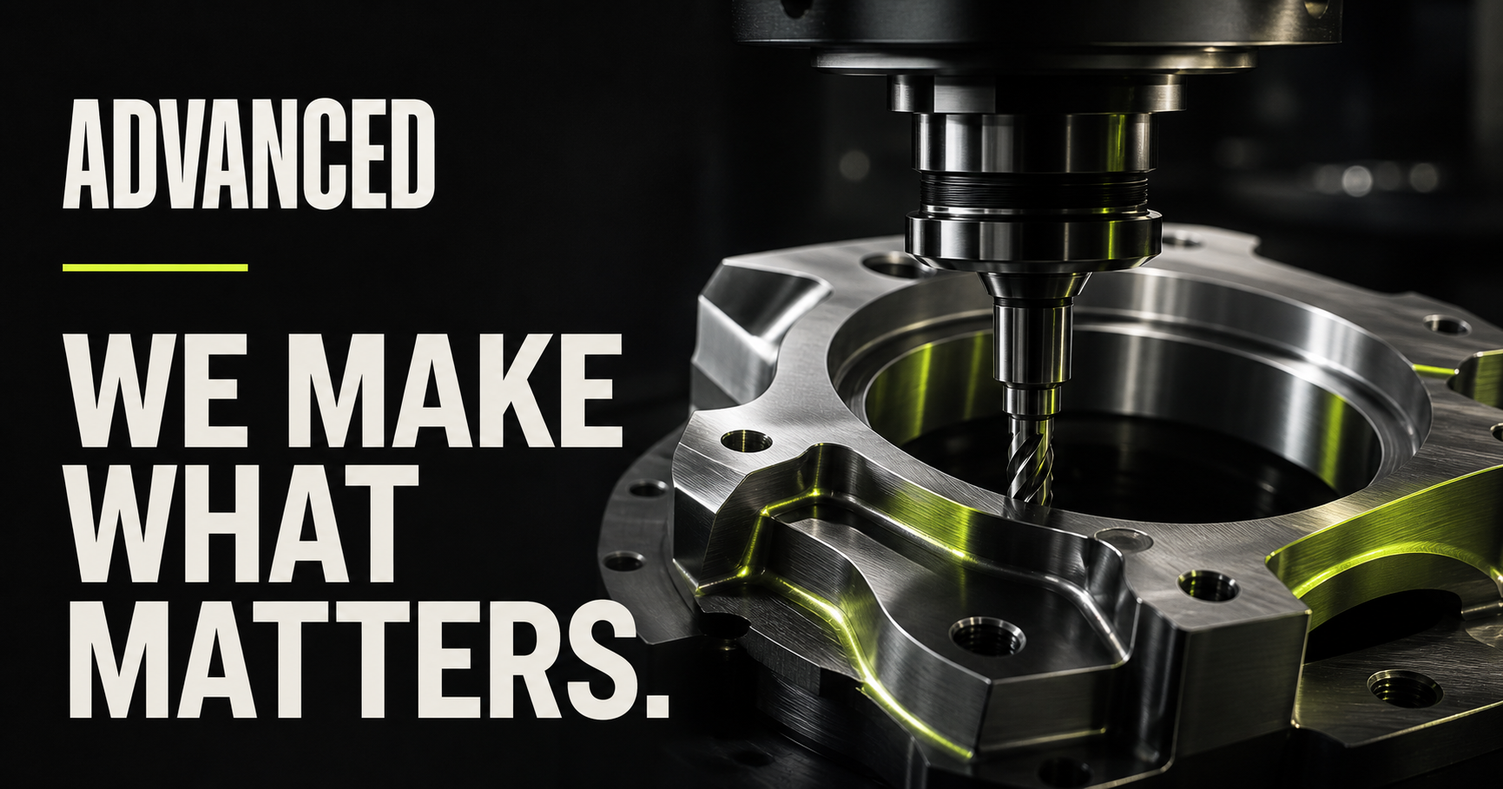
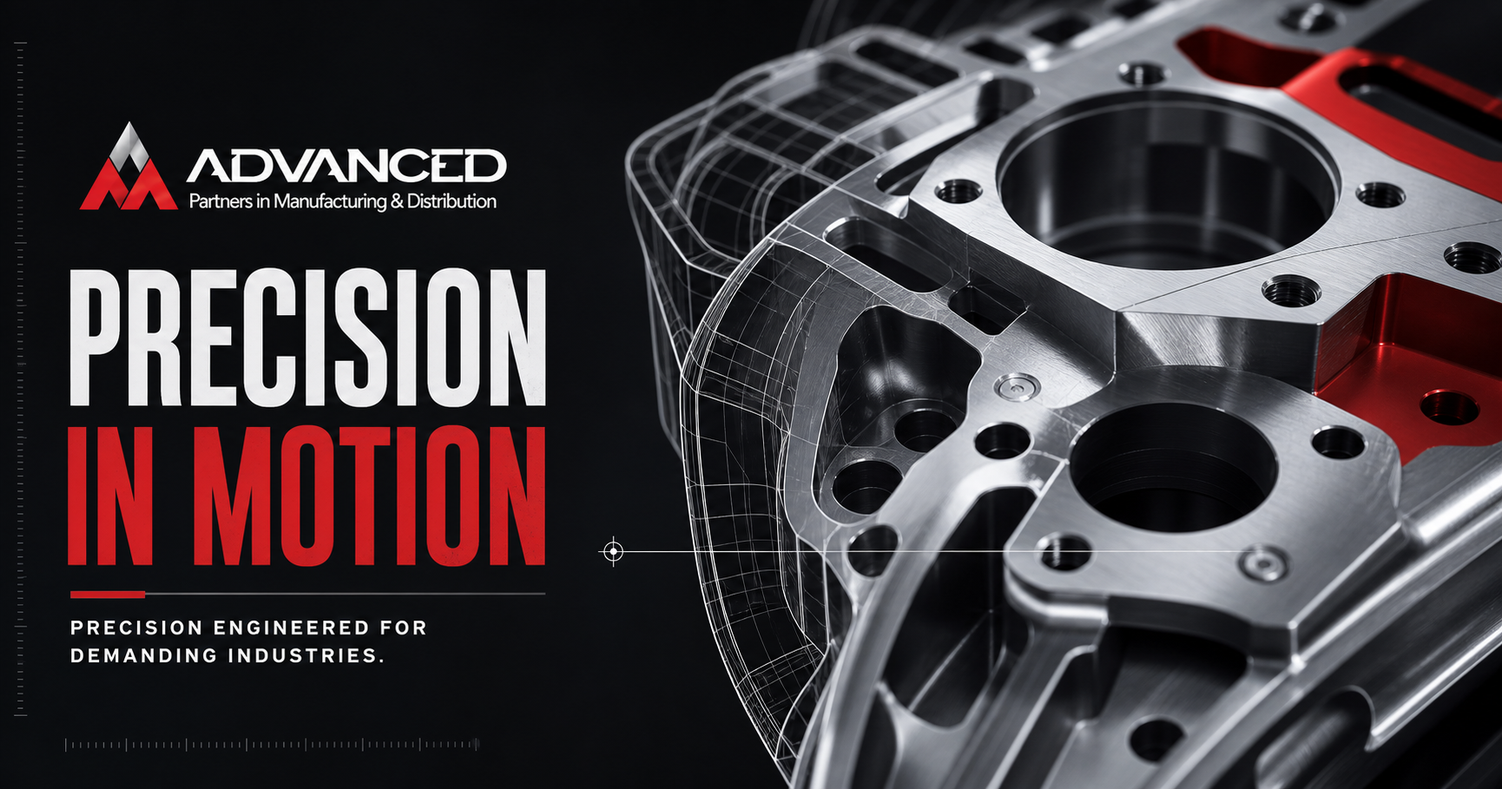
Redesign Advanced around Precision in Motion

diff --git a/app/globals.css b/app/globals.css
@@ -1,3 +1,15 @@
 @import "tailwindcss";
-:root{--ink:#10110f;--paper:#f0eee7;--acid:#d7ff3f;--line:#10110f2e}*{box-sizing:border-box}html{scroll-behavior:smooth}body{margin:0;background:var(--paper);color:var(--ink);font-family:var(--font-geist),Arial,sans-serif}a{color:inherit;text-decoration:none}main{overflow:hidden}.site-header{position:absolute;z-index:10;inset:0 0 auto;height:86px;display:flex;align-items:center;gap:42px;padding:0 3.4vw;color:white;border-bottom:1px solid #ffffff3d}.brand{display:inline-flex;align-items:center;gap:12px;font-size:14px;font-weight:720;letter-spacing:.16em}.brand-mark{width:34px;height:34px;display:grid;place-items:center;border:1px solid;border-radius:50%;font-size:14px;letter-spacing:0}.desktop-nav{margin-left:auto;display:flex;gap:34px;font-size:13px}.header-cta{margin-left:24px;padding:12px 18px;border:1px solid #ffffffb3;border-radius:100px;font-size:13px}.hero{position:relative;min-height:100svh;color:white;background:#181a17;display:flex;flex-direction:column;justify-content:flex-end;padding:122px 3.4vw 34px}.hero-video{position:absolute;inset:0;width:100%;height:100%;object-fit:cover;filter:saturate(.55) contrast(1.08)}.hero-shade{position:absolute;inset:0;background:linear-gradient(90deg,#070807d1,#07080733 58%,#07080775),linear-gradient(0deg,#070807b8,transparent 55%)}.hero-grid{position:absolute;inset:0;background-image:linear-gradient(#ffffff0e 1px,transparent 1px),linear-gradient(90deg,#ffffff0e 1px,transparent 1px);background-size:8.33vw 8.33vw}.eyebrow{position:relative;z-index:1;display:flex;align-items:center;gap:12px;text-transform:uppercase;font:600 11px var(--font-mono),monospace;letter-spacing:.15em}.eyebrow span{width:30px;height:1px;background:currentColor}.hero-copy{position:relative;display:grid;grid-template-columns:1fr minmax(240px,27vw);gap:6vw;align-items:end;z-index:1}.hero h1{margin:22px 0 0;font-size:clamp(68px,11.2vw,178px);line-height:.78;letter-spacing:-.075em;font-weight:650}.hero-side{display:flex;align-items:flex-end;justify-content:space-between;gap:30px;padding-bottom:10px}.hero-side p{max-width:330px;margin:0;font-size:clamp(16px,1.35vw,22px);line-height:1.45}.circle-link{width:58px;height:58px;display:grid;place-items:center;border:1px solid #ffffffa6;border-radius:50%}.hero-foot{position:relative;z-index:1;margin-top:50px;padding-top:20px;display:flex;justify-content:space-between;border-top:1px solid #ffffff47;text-transform:uppercase;font:500 10px var(--font-mono),monospace;letter-spacing:.12em}.section-pad{padding:130px 5vw}.statement{position:relative;min-height:820px}.statement h2{margin:70px 0 0;font-size:clamp(74px,11vw,164px);line-height:.82;letter-spacing:-.075em;font-weight:630}.statement-copy{position:absolute;right:7vw;bottom:130px;width:min(390px,32vw);font-size:19px;line-height:1.55}.capabilities{display:grid;grid-template-columns:repeat(3,1fr);border-block:1px solid var(--line)}.capability{min-height:530px;padding:34px 2.8vw 28px;display:flex;flex-direction:column;border-right:1px solid var(--line);transition:.35s}.capability:last-child{border:0}.capability:hover{background:var(--ink);color:var(--paper)}.cap-number{font:500 11px var(--font-mono),monospace}.capability h3{margin:auto 0 22px;font-size:clamp(38px,4vw,64px);line-height:.95;letter-spacing:-.055em}.capability p{margin:0 0 48px;font-size:15px;line-height:1.55}.cap-bottom{display:flex;justify-content:space-between;padding-top:20px;border-top:1px solid;text-transform:uppercase;font:500 10px var(--font-mono),monospace}.quality{padding:110px 6vw;background:var(--ink);color:var(--paper);display:grid;grid-template-columns:1fr 1.15fr;gap:7vw}.quality-orbit{min-height:680px;display:grid;place-items:center;border:1px solid #f0eee73d;border-radius:50%;position:relative}.quality-orbit:after{content:"";position:absolute;width:38%;height:38%;border-radius:50%;background:var(--acid)}.quality-orbit span{z-index:2;color:var(--ink);font-size:clamp(95px,15vw,220px);font-weight:650}.quality-copy{padding-top:80px}.quality h2,.systems h2{margin:55px 0 36px;font-size:clamp(62px,8vw,125px);line-height:.85;letter-spacing:-.07em}.quality-copy>p:last-of-type{font-size:18px;line-height:1.65;color:#bfc0b8}.text-link{display:inline-flex;gap:22px;margin-top:32px;border-bottom:1px solid;padding-bottom:8px}.quality-stats{grid-column:2;display:grid;grid-template-columns:repeat(3,1fr);border-top:1px solid #f0eee738;padding-top:24px}.quality-stats div{display:flex;flex-direction:column;gap:38px}.quality-stats strong{color:var(--acid)}.systems{display:grid;grid-template-columns:.78fr 1.22fr;gap:8vw}.systems-heading{position:sticky;top:60px;align-self:start}.systems-heading>p:last-child{max-width:390px;font-size:17px;line-height:1.6}.systems-list{border-top:1px solid var(--line)}.systems-list article{display:grid;grid-template-columns:60px 1fr minmax(200px,.8fr) 30px;gap:22px;padding:35px 0 60px;border-bottom:1px solid var(--line)}.system-index{font:500 10px var(--font-mono),monospace}.systems-list h3{margin:0;font-size:clamp(25px,2.8vw,43px);line-height:1;letter-spacing:-.04em}.systems-list p{margin:0;font-size:14px;line-height:1.55}.story{min-height:800px;position:relative;background:#aeb0aa;display:grid;grid-template-columns:1.3fr .7fr;align-items:end;padding:6vw}.story:before{content:"";position:absolute;width:50vw;height:50vw;border-radius:50%;background:var(--acid);left:-7vw;top:-16vw}.story-word{z-index:1;font-size:clamp(170px,31vw,480px);font-weight:700;letter-spacing:-.11em;line-height:.65}.story-copy{z-index:2}.story-copy h2{font-size:clamp(45px,5vw,78px);line-height:.92;letter-spacing:-.055em}.story-copy>p:last-child{font-size:17px;line-height:1.6}.contact{padding:120px 5vw 70px}.contact h2{margin:70px 0 80px;font-size:clamp(100px,17vw,260px);line-height:.72;letter-spacing:-.09em}.contact-row{display:grid;grid-template-columns:1fr 1fr;gap:5vw;border-top:1px solid var(--line);padding-top:28px}.contact-row p{max-width:440px;font-size:18px;line-height:1.55}.contact-row a{display:flex;justify-content:space-between;padding:22px 0;border-bottom:1px solid;font-size:21px}footer{background:var(--ink);color:var(--paper);padding:60px 5vw 35px;display:grid;grid-template-columns:1.3fr 1fr .6fr;gap:40px}footer>div{display:flex;flex-direction:column;gap:12px}footer p{grid-column:1/-1;margin-top:60px;padding-top:20px;border-top:1px solid #ffffff33}
-@media(max-width:900px){.desktop-nav{display:none}.header-cta{margin-left:auto}.hero-copy,.quality,.systems,.story{grid-template-columns:1fr}.statement-copy{position:static;width:auto;margin-top:60px}.capabilities{grid-template-columns:1fr}.capability{min-height:360px;border-right:0;border-bottom:1px solid var(--line)}.quality-orbit{min-height:70vw}.quality-stats{grid-column:1}.systems-heading{position:static}.story{min-height:700px}}@media(max-width:560px){.site-header{padding:0 20px}.brand>span:last-child,.hero-foot span:not(:first-child){display:none}.header-cta{font-size:11px}.hero{padding:110px 20px 25px;min-height:760px}.hero h1{font-size:20vw}.hero-side{display:block}.section-pad{padding:90px 22px}.statement{min-height:auto}.quality,.story,.contact{padding:80px 22px}.quality-stats,.contact-row,footer{grid-template-columns:1fr}.systems-list article{grid-template-columns:40px 1fr}.systems-list p{grid-column:2}.story-word{font-size:48vw}footer{padding:50px 22px}footer p{grid-column:1;margin-top:20px}}@media(prefers-reduced-motion:reduce){html{scroll-behavior:auto}.hero-video{display:none}}
+:root{--red:#e03131;--ink:#151718;--graphite:#222629;--mid:#6b6f72;--silver:#b6b9bc;--line:#d0d1ce;--paper:#f4f3ef;--white:#fff;--display:"Arial Narrow","Helvetica Neue",Arial,sans-serif}
+*{box-sizing:border-box}html{scroll-behavior:smooth;scroll-padding-top:82px}body{margin:0;background:var(--paper);color:var(--ink);font-family:var(--font-geist),Arial,sans-serif}a{color:inherit;text-decoration:none}button,input,textarea{font:inherit}main{overflow:hidden}.skip-link{position:fixed;z-index:100;top:8px;left:8px;transform:translateY(-160%);background:var(--red);color:#fff;padding:12px 18px}.skip-link:focus{transform:none}.site-header{position:fixed;z-index:50;inset:0 0 auto;height:82px;display:flex;align-items:center;gap:32px;padding:0 2.5vw;background:#f4f3eff2;border-bottom:1px solid #1b1d1e26;backdrop-filter:blur(18px)}.brand{width:205px;height:64px;display:flex;align-items:center;overflow:hidden}.brand img{width:205px;height:auto;display:block}.desktop-nav{margin-left:auto;display:flex;align-items:center;gap:clamp(14px,1.7vw,30px);font-size:12px;font-weight:650;letter-spacing:.025em}.desktop-nav a{position:relative;padding:10px 0}.desktop-nav a:after{content:"";position:absolute;left:0;right:100%;bottom:4px;height:2px;background:var(--red);transition:right .25s}.desktop-nav a:hover:after,.desktop-nav a:focus-visible:after{right:0}.header-rfq{display:flex;align-items:center;gap:22px;padding:12px 17px;background:var(--red);color:#fff;text-transform:uppercase;font:600 11px var(--font-mono),monospace;letter-spacing:.08em}.header-rfq:hover,.header-rfq:focus-visible{background:#bd1e26}a:focus-visible,summary:focus-visible,input:focus-visible,textarea:focus-visible{outline:3px solid var(--red);outline-offset:3px}
+.hero{position:relative;min-height:100svh;padding-top:82px;background:#101112;color:#fff;display:flex;flex-direction:column}.hero-video{position:absolute;inset:82px 0 0;width:100%;height:calc(100% - 82px);object-fit:cover;filter:saturate(.42) contrast(1.15)}.hero-overlay{position:absolute;inset:82px 0 0;background:linear-gradient(90deg,#111314eb 0%,#111314b0 46%,#11131438 76%),linear-gradient(0deg,#111314e8 0%,transparent 55%)}.scan-grid{position:absolute;inset:82px 0 0;background-image:linear-gradient(#ffffff0c 1px,transparent 1px),linear-gradient(90deg,#ffffff0c 1px,transparent 1px);background-size:8.333vw 8.333vw;pointer-events:none}.scan-grid:after{content:"";position:absolute;left:58%;top:12%;width:min(30vw,440px);aspect-ratio:1;border:1px solid #ffffff4d;border-radius:50%;box-shadow:0 0 0 5vw #ffffff08,0 0 0 10vw #ffffff05}.scan-grid i{position:absolute;background:var(--red)}.scan-grid i:first-child{left:58%;top:50%;width:30vw;height:1px}.scan-grid i:nth-child(2){left:73%;top:28%;width:1px;height:44%}.scan-grid i:last-child{left:72.7%;top:49.6%;width:7px;height:7px;border-radius:50%}.hero-content{position:relative;z-index:2;flex:1;display:flex;flex-direction:column;justify-content:flex-end;padding:120px 4vw 52px}.kicker{display:flex;align-items:center;gap:28px;margin:0 0 32px;text-transform:uppercase;font:600 10px var(--font-mono),monospace;letter-spacing:.16em}.kicker span{color:#fff}.kicker b{color:#ffffff8c;font-weight:500}.kicker:before{content:"";width:44px;height:3px;background:var(--red)}.hero h1{max-width:1200px;margin:0;font-family:var(--display);font-size:clamp(64px,8.7vw,148px);font-stretch:condensed;font-weight:850;line-height:.83;letter-spacing:-.065em;text-transform:uppercase}.hero-bottom{display:grid;grid-template-columns:minmax(280px,580px) auto;gap:6vw;align-items:end;margin-top:50px}.hero-bottom>p{margin:0;font-size:clamp(16px,1.35vw,21px);line-height:1.55;color:#e4e4e0}.hero-actions{display:flex;gap:12px;justify-content:flex-end}.button{min-height:52px;padding:0 19px;display:inline-flex;align-items:center;justify-content:space-between;gap:38px;text-transform:uppercase;font:650 10px var(--font-mono),monospace;letter-spacing:.08em;border:1px solid transparent;transition:.2s}.button-red{background:var(--red);color:#fff}.button-red:hover{background:#bd1e26}.button-ghost{border-color:#ffffff70;color:#fff}.button-ghost:hover{background:#fff;color:#111}.trust-strip{position:relative;z-index:2;min-height:64px;display:grid;grid-template-columns:repeat(5,1fr);border-top:1px solid #ffffff40}.trust-strip span{display:grid;place-items:center;padding:18px 10px;border-right:1px solid #ffffff40;text-transform:uppercase;font:550 10px var(--font-mono),monospace;letter-spacing:.12em}.trust-strip span:last-child{border:0}
+.section-shell{padding:120px 4vw}.section-label{display:flex;gap:18px;align-items:center;text-transform:uppercase;font:650 10px var(--font-mono),monospace;letter-spacing:.14em}.section-label span{color:var(--red)}.section-label p{margin:0}.section-label:after{content:"";height:1px;width:46px;background:currentColor;opacity:.4}.section-label.light{color:#fff}.intro{display:grid;grid-template-columns:170px 1fr;gap:4vw}.intro-copy h2,.section-heading h2,.proof h2,.quality h2,.company h2,.rfq h2{margin:0;font-family:var(--display);font-size:clamp(62px,8vw,128px);font-weight:850;line-height:.84;letter-spacing:-.065em;text-transform:uppercase}.intro-copy h2 em,.rfq h2 em{color:var(--red);font-style:normal}.intro-copy>p{margin:42px 0 0 44%;max-width:570px;font-size:18px;line-height:1.65}.material-sequence{grid-column:2;margin-top:90px;display:grid;grid-template-columns:1fr auto 1fr auto 1fr;gap:25px;align-items:center;border-top:1px solid var(--line);padding-top:28px}.material-sequence div{display:flex;flex-direction:column;gap:30px}.material-sequence b{color:var(--red);font:600 10px var(--font-mono),monospace}.material-sequence span{text-transform:uppercase;font:650 12px var(--font-mono),monospace;letter-spacing:.08em}.material-sequence i{font-style:normal;color:var(--mid)}
+.capabilities{display:grid;grid-template-columns:minmax(320px,.82fr) 1.18fr;gap:8vw;background:#fff}.section-heading{align-self:start;position:sticky;top:120px}.section-heading h2{margin:52px 0 34px;font-size:clamp(52px,6.2vw,96px)}.section-heading>p{max-width:480px;margin:0;font-size:17px;line-height:1.65;color:#505457}.capability-list{border-top:1px solid var(--ink)}details{border-bottom:1px solid var(--line)}summary{list-style:none;cursor:pointer;display:grid;grid-template-columns:44px 1fr minmax(180px,.75fr) 24px;gap:20px;align-items:start;padding:28px 0}summary::-webkit-details-marker{display:none}summary>span{color:var(--red);font:600 10px var(--font-mono),monospace}summary h3{margin:0;font-family:var(--display);font-size:clamp(26px,2.4vw,42px);line-height:.95;text-transform:uppercase}summary p{margin:0;font-size:13px;line-height:1.5;color:#666a6c}summary b{font-size:22px;font-weight:400;transition:transform .2s}details[open] summary b{transform:rotate(45deg);color:var(--red)}.capability-detail{display:grid;grid-template-columns:repeat(2,1fr);margin:0 0 30px 64px;background:#efefec}.capability-detail div{min-height:110px;padding:18px;border:1px solid #fff;display:flex;flex-direction:column;gap:14px}.capability-detail span{text-transform:uppercase;font:600 9px var(--font-mono),monospace;letter-spacing:.1em;color:var(--red)}.capability-detail strong{font-size:13px;line-height:1.5;font-weight:550}
+.proof{background:var(--graphite);color:#fff;padding:115px 0 38px}.proof-top{padding-top:0;padding-bottom:75px}.proof-top h2{margin:50px 0 0}.proof-grid{display:grid;grid-template-columns:repeat(4,1fr);border-block:1px solid #ffffff2b}.proof-grid div{min-height:300px;padding:34px 3vw;display:flex;flex-direction:column;justify-content:space-between;border-right:1px solid #ffffff2b}.proof-grid div:last-child{border:0}.proof-grid strong{font-family:var(--display);font-size:clamp(70px,9vw,148px);line-height:.75;letter-spacing:-.06em;color:var(--red)}.proof-grid span{max-width:190px;font-size:13px;line-height:1.4;color:#d2d2cd}.proof-note{max-width:760px;margin:30px 4vw 0;color:#949794;font:500 10px/1.6 var(--font-mono),monospace;text-transform:uppercase;letter-spacing:.06em}
+.work{background:#ecebe7}.work-heading{position:static;display:grid;grid-template-columns:170px 1fr;gap:4vw}.work-heading h2{grid-column:2}.work-heading>a{grid-column:2;justify-self:end;border-bottom:1px solid;padding:9px 0;text-transform:uppercase;font:600 10px var(--font-mono),monospace}.project-grid{margin-top:90px;display:grid;grid-template-columns:repeat(12,1fr);gap:5vw 2vw}.project{grid-column:span 6}.project-2{margin-top:160px}.project-3{grid-column:3/span 8;margin-top:50px}.project-image{position:relative;aspect-ratio:1.2;background:#222;overflow:hidden}.project-3 .project-image{aspect-ratio:1.7}.project-image img{width:100%;height:100%;object-fit:cover;transition:transform .7s,filter .7s;filter:saturate(.72)}.project:hover img{transform:scale(1.025);filter:saturate(1)}.project-image>span{position:absolute;top:18px;left:18px;width:38px;height:38px;display:grid;place-items:center;background:#fff;color:#111;font:600 10px var(--font-mono),monospace}.project-industry{margin:22px 0 12px;color:var(--red);text-transform:uppercase;font:650 10px var(--font-mono),monospace;letter-spacing:.1em}.project h3{margin:0;font-family:var(--display);font-size:clamp(36px,4vw,64px);line-height:.9;text-transform:uppercase}.project dl{margin:30px 0 0;border-top:1px solid var(--line)}.project dl div{display:grid;grid-template-columns:100px 1fr;padding:12px 0;border-bottom:1px solid var(--line)}dt{text-transform:uppercase;font:600 9px var(--font-mono),monospace;color:var(--mid)}dd{margin:0;font-size:13px}.project-note{font:500 10px/1.6 var(--font-mono),monospace;color:var(--mid);text-transform:uppercase}
+.quality{display:grid;grid-template-columns:.95fr 1.05fr;background:#141617;color:#fff}.quality-visual{min-height:900px;display:flex;flex-direction:column;align-items:center;justify-content:center;padding:5vw;border-right:1px solid #ffffff26;background:radial-gradient(circle at 50% 50%,#2c3032,#111314 68%)}.quality-rings{width:min(38vw,560px);aspect-ratio:1;border:1px solid #ffffff36;border-radius:50%;display:grid;place-items:center;box-shadow:0 0 0 7vw #ffffff09,0 0 0 14vw #ffffff05;position:relative}.quality-rings:before,.quality-rings:after{content:"";position:absolute;background:var(--red)}.quality-rings:before{width:115%;height:1px}.quality-rings:after{height:115%;width:1px}.quality-rings span{width:38%;aspect-ratio:1;border-radius:50%;display:grid;place-items:center;background:var(--red);font-family:var(--display);font-size:clamp(64px,10vw,140px);font-weight:850}.quality-visual p{margin:90px 0 0;font:500 9px var(--font-mono),monospace;letter-spacing:.12em;color:#8f9391}.quality-content{padding:100px 5vw}.quality-content h2{margin:55px 0 35px;font-size:clamp(58px,6.8vw,110px)}.quality-lead{max-width:620px;font-size:17px;line-height:1.65;color:#bfc1bd}.cert-grid{display:grid;grid-template-columns:repeat(2,1fr);margin:50px 0;border-block:1px solid #ffffff2b}.cert-grid div{padding:26px 0;display:flex;flex-direction:column;gap:15px}.cert-grid strong{font-family:var(--display);font-size:38px;color:var(--red)}.cert-grid span{font-size:12px;color:#aeb0ad}.quality-flow{list-style:none;margin:0;padding:0}.quality-flow li{display:grid;grid-template-columns:50px 1fr;padding:15px 0;border-bottom:1px solid #ffffff24;font-size:14px}.quality-flow span{color:var(--red);font:600 9px var(--font-mono),monospace}.quality-equipment{margin:35px 0 0;display:flex;flex-direction:column;gap:10px;font-size:14px}.quality-equipment span{text-transform:uppercase;color:#8f9391;font:600 9px var(--font-mono),monospace}
+.company{display:grid;grid-template-columns:.78fr 1.22fr;gap:9vw}.company-intro{position:sticky;top:120px;align-self:start}.company h2{margin:50px 0 32px;font-size:clamp(55px,6vw,95px)}.company-intro>p{max-width:490px;font-size:17px;line-height:1.65}.timeline{border-top:1px solid var(--ink)}.timeline article{display:grid;grid-template-columns:45px 110px 1fr;gap:24px;padding:31px 0;border-bottom:1px solid var(--line)}.timeline article>span{color:var(--red);font:600 9px var(--font-mono),monospace}.timeline time{font-family:var(--display);font-size:34px;font-weight:800}.timeline p{margin:4px 0 0;font-size:14px;line-height:1.55}
+.rfq{display:grid;grid-template-columns:.95fr 1.05fr;background:var(--graphite);color:#fff}.rfq-copy{padding:110px 5vw}.rfq h2{margin:58px 0 35px;font-size:clamp(60px,6.8vw,110px)}.rfq-copy>p{max-width:540px;font-size:17px;line-height:1.65;color:#c9cbc7}.confidentiality{margin-top:70px;padding-top:22px;border-top:1px solid #ffffff32;display:flex;flex-direction:column;gap:12px}.confidentiality b{text-transform:uppercase;color:var(--red);font:650 10px var(--font-mono),monospace}.confidentiality span{max-width:470px;font-size:12px;line-height:1.55;color:#aeb0ad}.rfq-panel{padding:110px 5vw;background:#f4f3ef;color:var(--ink)}.rfq-panel-title{text-transform:uppercase;font:650 10px var(--font-mono),monospace;letter-spacing:.12em}.rfq-fields{display:grid;grid-template-columns:repeat(2,1fr);gap:24px;margin:42px 0}.rfq-fields label{display:flex;flex-direction:column;gap:10px;text-transform:uppercase;font:600 9px var(--font-mono),monospace;letter-spacing:.1em}.rfq-fields input,.rfq-fields textarea{border:0;border-bottom:1px solid var(--line);background:transparent;padding:12px 0;border-radius:0;resize:vertical;font:400 14px var(--font-geist),sans-serif}.field-wide{grid-column:1/-1}.upload-zone{min-height:120px;padding:22px;border:1px dashed #979a99;display:flex;align-items:center;justify-content:space-between;gap:22px;transition:.2s}.upload-zone:hover{border-color:var(--red);background:#fff}.upload-zone span{display:flex;flex-direction:column;gap:10px}.upload-zone b{font-size:14px}.upload-zone small{font-size:11px;color:var(--mid)}.upload-zone strong{color:var(--red);font-size:12px}.rfq-actions{margin-top:24px;display:flex;align-items:center;gap:28px}.rfq-actions>a:last-child{font-size:12px;border-bottom:1px solid;padding:8px 0}
+footer{padding:65px 4vw 30px;background:#ecebe7;display:grid;grid-template-columns:1fr 1fr .8fr;gap:4vw;align-items:start;border-top:4px solid var(--red)}.footer-brand{width:220px;height:70px;overflow:hidden}.footer-brand img{width:220px;height:auto}.footer-brand+p{margin:5px 0;font-size:13px;line-height:1.6;color:var(--mid)}footer nav{display:grid;grid-template-columns:repeat(2,1fr);gap:12px;font-size:12px}.footer-meta{grid-column:1/-1;margin-top:60px;padding-top:20px;border-top:1px solid var(--line);display:flex;gap:28px;text-transform:uppercase;font:600 9px var(--font-mono),monospace}.footer-meta span{margin-right:auto}
+@media(max-width:1050px){.desktop-nav{display:none}.header-rfq{margin-left:auto}.capabilities,.company{grid-template-columns:1fr}.section-heading,.company-intro{position:static}.quality,.rfq{grid-template-columns:1fr}.quality-visual{min-height:650px}.quality-rings{width:min(62vw,520px)}}
+@media(max-width:760px){html{scroll-padding-top:70px}.site-header{height:70px;padding:0 18px}.brand,.brand img{width:155px}.header-rfq{padding:10px 12px;font-size:9px;gap:10px}.hero{padding-top:70px;min-height:820px}.hero-video,.hero-overlay,.scan-grid{inset:70px 0 0}.hero-content{padding:110px 20px 38px}.hero h1{font-size:clamp(54px,16vw,94px)}.hero-bottom{grid-template-columns:1fr;gap:34px}.hero-actions{justify-content:flex-start;flex-wrap:wrap}.trust-strip{grid-template-columns:repeat(2,1fr)}.trust-strip span:last-child{grid-column:1/-1}.section-shell{padding:86px 22px}.intro{grid-template-columns:1fr}.intro-copy h2{margin-top:52px}.intro-copy>p{margin:38px 0 0}.material-sequence{grid-column:1;grid-template-columns:1fr;margin-top:60px}.material-sequence i{transform:rotate(90deg);justify-self:start}.capabilities{gap:65px}.section-heading h2{margin-top:42px}.capability-list summary{grid-template-columns:35px 1fr 20px}.capability-list summary p{grid-column:2}.capability-list summary b{grid-column:3;grid-row:1}.capability-detail{margin-left:0;grid-template-columns:1fr}.proof{padding-top:85px}.proof-top{padding-bottom:55px}.proof-grid{grid-template-columns:repeat(2,1fr)}.proof-grid div{min-height:210px}.proof-grid div:nth-child(2){border-right:0}.work-heading{grid-template-columns:1fr}.work-heading h2,.work-heading>a{grid-column:1}.work-heading h2{margin-top:42px}.work-heading>a{justify-self:start}.project-grid{grid-template-columns:1fr;margin-top:65px;gap:75px}.project,.project-2,.project-3{grid-column:1;margin-top:0}.project-image,.project-3 .project-image{aspect-ratio:1.18}.quality-visual{min-height:520px}.quality-content,.rfq-copy,.rfq-panel{padding:85px 22px}.quality-rings{width:72vw}.quality-rings span{font-size:20vw}.cert-grid{grid-template-columns:1fr}.company{gap:65px}.timeline article{grid-template-columns:32px 80px 1fr;gap:12px}.timeline time{font-size:28px}.rfq-fields{grid-template-columns:1fr}.field-wide{grid-column:1}.rfq-actions{align-items:flex-start;flex-direction:column}.button{gap:24px}footer{grid-template-columns:1fr;padding:50px 22px 28px}footer nav{margin-top:15px}.footer-meta{grid-column:1;margin-top:25px}.footer-meta span{margin-right:0}}
+@media(prefers-reduced-motion:reduce){html{scroll-behavior:auto}.hero-video{display:none}.project-image img,.desktop-nav a:after{transition:none}}

diff --git a/app/page.tsx b/app/page.tsx
@@ -1,24 +1,76 @@
 const capabilities = [
-  { number: "01", title: "Precision machining", copy: "Complex parts, exacting tolerances, and disciplined execution from first article through repeat production.", detail: "Aerospace / Energy / Industrial" },
-  { number: "02", title: "Engineered plastics", copy: "Material expertise and responsive supply for demanding applications where consistency matters.", detail: "Materials / Distribution / Fabrication" },
-  { number: "03", title: "Quality systems", copy: "Inspection, traceability, and process control are built into the work - not added after it.", detail: "First-piece / In-process / Final" },
+  { index: "01", title: "Precision machining", statement: "Complex geometries across 3-, 4- and 5-axis workflows.", details: [["Processes", "3-axis vertical, 4-axis horizontal, 5-axis multi-task"], ["Materials", "Aluminum, titanium, nickel alloys, CRES, engineered plastics"], ["Automation", "FMS robotic Fastems system and palletized production"], ["Tolerance", "Drawing-dependent — confirm through RFQ"]] },
+  { index: "02", title: "Fabrication", statement: "Production support for demanding industrial and food-processing applications.", details: [["Applications", "Packaging, wear items, OEM replacement and MRO"], ["Standards", "FDA- and NSF-compliant materials when specified"], ["Part envelope", "Project-specific — drawing review required"], ["Volume", "Prototype and production scope confirmed by RFQ"]] },
+  { index: "03", title: "Plastics", statement: "Material selection, distribution and machining under one roof.", details: [["Forms", "Rod, sheet, tube and film"], ["Families", "Thermoset, thermoplastic and elastomeric"], ["Grades", "High-performance, engineered and general industrial"], ["Support", "Application-specific material guidance"]] },
+  { index: "04", title: "Assembly", statement: "Close-precision parts and assemblies for controlled programs.", details: [["Programs", "Aerospace, defense, energy and industrial"], ["Support", "New program development, legacy and MRO"], ["Documentation", "Requirements reviewed per customer program"], ["Capacity", "Assembly scope confirmed through engineering review"]] },
+  { index: "05", title: "Inspection + quality", statement: "Measurement and traceability built into the production path.", details: [["Systems", "AS9100 and ISO 9001 certified QMS"], ["Equipment", "Zeiss and DuraMax coordinate measuring machines"], ["Controls", "First-article, in-process and final inspection"], ["Records", "Program-specific traceability and documentation"]] },
+  { index: "06", title: "Engineering support", statement: "Technical collaboration before the first chip is cut.", details: [["Review", "Print, material and manufacturability alignment"], ["Planning", "Process selection and production routing"], ["Launch", "New-program and legacy-part support"], ["Input", "STEP, CAD and PDF files accepted through RFQ"]] },
 ];
-const systems = [
-  ["Live production visibility", "Machine state, work-center capacity, and priority signals brought into one operational view."],
-  ["First-piece confidence", "Shared quality checkpoints help teams see, act, and communicate before the next part runs."],
-  ["Tool intelligence", "Shop-floor knowledge, tooling cost, and process guidance organized for faster decisions."],
-  ["Connected handoffs", "Structured shift notes keep operators, supervisors, and the next shift working from the same facts."],
+const proof = [["1979", "Founded in Owasso, Oklahoma"], ["3", "Fully equipped shops onsite"], ["50+", "Manufacturing professionals"], ["2", "AS9100 + ISO 9001 certifications"]];
+const projects = [
+  { image: "/work-longeron.jpg", industry: "Aerospace", title: "Upper-door longeron assembly", material: "7050-T7451 aluminum", process: "5-axis mill", size: "2.50 × 11.93 × 25.25 in", note: "Customer challenge and measured program outcome are confidential / pending publication." },
+  { image: "/work-door-hinge.jpg", industry: "Aerospace", title: "Main landing-gear door hinge", material: "6AL-4V titanium", process: "4-axis horizontal mill", size: "3.00 × 5.50 × 14.00 in", note: "Tolerance and production-volume details are available through controlled project review." },
+  { image: "/work-motorlead.jpeg", industry: "Oil + gas", title: "Motor-lead housing", material: "K-500 Monel", process: "5-axis multi-task", size: "Ø 3.50 × 4.00 in", note: "Application constraints and measured outcome are available where disclosure permits." },
+];
+const timeline = [
+  ["1979", "Advanced Plastics opens for industrial sales and nationwide distribution."],
+  ["1981", "Aerospace manufacturing begins with work supporting the DC-9 program."],
+  ["1984", "The first full 3-axis CNC machines enter production."],
+  ["1998", "Advanced invests in its first mill-turn, multi-axis machining centers."],
+  ["2007", "The quality system achieves dual AS9100 and ISO 9001 certification."],
+  ["2016", "An FMS robotic Fastems system advances automated production."],
+  ["2023", "Advanced Plastics Inc. becomes a wholly owned subsidiary."],
 ];
 export default function Home() {
+  const schema = { "@context": "https://schema.org", "@type": "ManufacturingBusiness", name: "Advanced", url: "https://advcosinc.com", foundingDate: "1979", address: { "@type": "PostalAddress", addressLocality: "Owasso", addressRegion: "OK", addressCountry: "US" }, areaServed: "United States", knowsAbout: ["Precision machining", "Engineered plastics", "Aerospace manufacturing", "Oil and gas manufacturing", "Food processing components"] };
   return <main>
-    <header className="site-header"><a className="brand" href="#top" aria-label="Advanced home"><span className="brand-mark" aria-hidden="true">A</span><span>ADVANCED</span></a><nav className="desktop-nav" aria-label="Primary navigation"><a href="#capabilities">Capabilities</a><a href="#quality">Quality</a><a href="#systems">Inside Advanced</a><a href="#story">Company</a></nav><a className="header-cta" href="#contact">Start a conversation <span aria-hidden="true">+</span></a></header>
-    <section className="hero" id="top"><video className="hero-video" autoPlay muted loop playsInline aria-hidden="true"><source src="https://advcosinc.com/wp-content/uploads/2024/07/Advance-Intro-Reel-Long_2.mp4" type="video/mp4" /></video><div className="hero-shade" /><div className="hero-grid" aria-hidden="true" /><p className="eyebrow hero-eyebrow"><span /> Precision manufacturing / USA</p><div className="hero-copy"><h1>We make<br />what matters.</h1><div className="hero-side"><p>Precision machining, engineered materials, and a team built to solve the hard manufacturing problems.</p><a className="circle-link" href="#capabilities" aria-label="Explore Advanced capabilities">v</a></div></div><div className="hero-foot"><span>Built on craft</span><span>Driven by data</span><span>Ready for what's next</span></div></section>
-    <section className="statement section-pad"><p className="eyebrow"><span /> What we believe</p><h2>Good enough<br />doesn't leave<br />our floor.</h2><p className="statement-copy">Advanced brings experienced people, modern equipment, and connected operations together to make ambitious work feel dependable.</p></section>
-    <section className="capabilities" id="capabilities">{capabilities.map((item) => <article className="capability" key={item.number}><div className="cap-number">({item.number})</div><h3>{item.title}</h3><p>{item.copy}</p><div className="cap-bottom"><span>{item.detail}</span><span aria-hidden="true">+</span></div></article>)}</section>
-    <section className="quality" id="quality"><div className="quality-orbit" aria-hidden="true"><span>Q</span></div><div className="quality-copy"><p className="eyebrow light"><span /> Quality is the system</p><h2>Precision<br />you can trace.</h2><p>From first-piece review to final inspection, quality is visible at every stage. Our processes help teams catch issues earlier, share decisions faster, and deliver with confidence.</p><a className="text-link" href="#contact">Talk to our team <span>+</span></a></div><div className="quality-stats" aria-label="Quality principles"><div><strong>01</strong><span>Plan the work</span></div><div><strong>02</strong><span>Control the process</span></div><div><strong>03</strong><span>Verify the result</span></div></div></section>
-    <section className="systems section-pad" id="systems"><div className="systems-heading"><p className="eyebrow"><span /> Inside Advanced</p><h2>A smarter<br />shop floor.</h2><p>We build practical systems around the people doing the work - turning production signals into clear next actions.</p></div><div className="systems-list">{systems.map(([title, copy], index) => <article key={title}><span className="system-index">0{index + 1}</span><h3>{title}</h3><p>{copy}</p><span className="system-arrow" aria-hidden="true">+</span></article>)}</div></section>
-    <section className="story" id="story"><div className="story-word" aria-hidden="true">ADV</div><div className="story-copy"><p className="eyebrow light"><span /> Our story</p><h2>Built to adapt.<br />Grounded in craft.</h2><p>Advanced has evolved through plastics distribution and precision manufacturing by staying close to customers, investing in capability, and never losing sight of the work itself.</p></div></section>
-    <section className="contact" id="contact"><p className="eyebrow"><span /> Your next project</p><h2>Let's make<br />it real.</h2><div className="contact-row"><p>Bring us the print, the problem, or the possibility. We'll bring the right people to the table.</p><a href="https://advcosinc.com/contact/">Start a conversation <span aria-hidden="true">+</span></a></div></section>
-    <footer><a className="brand footer-brand" href="#top"><span className="brand-mark">A</span><span>ADVANCED</span></a><div><span>Precision machining</span><span>Engineered plastics</span><span>Connected operations</span></div><div><a href="https://www.linkedin.com/company/advanced-plastics-and-machining/">LinkedIn +</a><a href="https://advcosinc.com/careers/">Careers +</a></div><p>Copyright 2026 Advanced. Built for the work ahead.</p></footer>
+    <a className="skip-link" href="#main-content">Skip to content</a>
+    <header className="site-header">
+      <a className="brand" href="#top" aria-label="Advanced home"><img src="/advanced-logo.jpg" alt="Advanced — Partners in Manufacturing and Distribution" /></a>
+      <nav className="desktop-nav" aria-label="Primary navigation"><a href="#solutions">Solutions</a><a href="#industries">Industries</a><a href="#quality">Quality</a><a href="#work">Work</a><a href="#company">Company</a><a href="https://recruiting.paylocity.com/recruiting/jobs/All/cb3507b0-4095-42c8-b12e-1ae0872126d2/ADVANCED-MACHINING-FABRIC">Careers</a><a href="#rfq">Contact</a></nav>
+      <a className="header-rfq" href="https://advcosinc.com/quote/">Request a quote <span aria-hidden="true">↗</span></a>
+    </header>
+    <section className="hero" id="top">
+      <video className="hero-video" autoPlay muted loop playsInline preload="metadata" poster="/og.png" aria-hidden="true"><source src="https://advcosinc.com/wp-content/uploads/2024/07/Advance-Intro-Reel-Long_2.mp4" type="video/mp4" /></video>
+      <div className="hero-overlay" /><div className="scan-grid" aria-hidden="true"><i /><i /><i /></div>
+      <div className="hero-content" id="main-content">
+        <p className="kicker"><span>Precision in motion</span><b>Owasso, Oklahoma</b></p>
+        <h1>Precision engineered<br />for demanding industries.</h1>
+        <div className="hero-bottom"><p>Advanced delivers complex machining, fabrication and manufacturing solutions backed by rigorous quality systems, experienced teams and dependable execution.</p><div className="hero-actions"><a className="button button-red" href="https://advcosinc.com/quote/">Start a project <span>↗</span></a><a className="button button-ghost" href="#solutions">Explore capabilities <span>↓</span></a></div></div>
+      </div>
+      <div className="trust-strip" id="industries"><span>Aerospace</span><span>Defense</span><span>Oil + gas</span><span>Food processing</span><span>Plastic distribution</span></div>
+    </section>
+    <section className="intro section-shell">
+      <div className="section-label"><span>00</span><p>Position</p></div>
+      <div className="intro-copy"><h2>Raw stock in.<br /><em>Certainty</em> out.</h2><p>Every program begins with requirements: material, geometry, documentation and delivery. Advanced turns those constraints into a controlled manufacturing path—from engineering review and automated machining to measured inspection.</p></div>
+      <div className="material-sequence" aria-label="Manufacturing transformation"><div><b>01</b><span>Raw material</span></div><i>→</i><div><b>02</b><span>Engineered process</span></div><i>→</i><div><b>03</b><span>Measured component</span></div></div>
+    </section>
+    <section className="capabilities section-shell" id="solutions">
+      <div className="section-heading"><div className="section-label"><span>01</span><p>Capabilities</p></div><h2>Built around the<br />part in front of us.</h2><p>Select a capability to see the verified systems behind it. Specifications that vary by drawing are marked for RFQ review.</p></div>
+      <div className="capability-list">{capabilities.map((item, index) => <details key={item.index} open={index === 0} name="capability"><summary><span>{item.index}</span><h3>{item.title}</h3><p>{item.statement}</p><b aria-hidden="true">+</b></summary><div className="capability-detail">{item.details.map(([label, value]) => <div key={label}><span>{label}</span><strong>{value}</strong></div>)}</div></details>)}</div>
+    </section>
+    <section className="proof" aria-labelledby="proof-title">
+      <div className="proof-top section-shell"><div className="section-label light"><span>02</span><p>Verified scale</p></div><h2 id="proof-title">Experience measured<br />in capability.</h2></div>
+      <div className="proof-grid">{proof.map(([number, label]) => <div key={number}><strong>{number}</strong><span>{label}</span></div>)}</div>
+      <p className="proof-note">Public company information current as of 2026. Machine count, supported tolerance range and delivery performance require internal verification before publication.</p>
+    </section>
+    <section className="work section-shell" id="work">
+      <div className="section-heading work-heading"><div className="section-label"><span>03</span><p>Selected work</p></div><h2>Complex parts.<br />Specific evidence.</h2><a href="https://advcosinc.com/gallery/">View the full gallery <span>↗</span></a></div>
+      <div className="project-grid">{projects.map((project, index) => <article className={`project project-${index + 1}`} key={project.title}><div className="project-image"><img src={project.image} alt={`${project.title} manufactured by Advanced`} loading="lazy" /><span>0{index + 1}</span></div><p className="project-industry">{project.industry}</p><h3>{project.title}</h3><dl><div><dt>Material</dt><dd>{project.material}</dd></div><div><dt>Process</dt><dd>{project.process}</dd></div><div><dt>Envelope</dt><dd>{project.size}</dd></div></dl><p className="project-note">{project.note}</p></article>)}</div>
+    </section>
+    <section className="quality" id="quality">
+      <div className="quality-visual" aria-hidden="true"><div className="quality-rings"><span>Q</span></div><p>Inspection datum / 00.000</p></div>
+      <div className="quality-content"><div className="section-label light"><span>04</span><p>Quality systems</p></div><h2>Quality is<br />visible here.</h2><p className="quality-lead">Evidence lives in the system: certified standards, controlled measurement, documented inspection and a repeatable path from print review to final release.</p><div className="cert-grid"><div><strong>AS9100</strong><span>Aerospace quality management</span></div><div><strong>ISO 9001</strong><span>Quality management system</span></div></div><ol className="quality-flow"><li><span>01</span>Requirement review</li><li><span>02</span>First-article inspection</li><li><span>03</span>In-process control</li><li><span>04</span>CMM verification</li><li><span>05</span>Final release + records</li></ol><p className="quality-equipment"><span>Inspection equipment</span>Zeiss and DuraMax coordinate measuring machines</p></div>
+    </section>
+    <section className="company section-shell" id="company">
+      <div className="company-intro"><div className="section-label"><span>05</span><p>Company history</p></div><h2>Built to evolve.<br />Grounded in 1979.</h2><p>Advanced began in plastics distribution, moved into aerospace manufacturing, and kept investing in the machines, automation and quality systems required by the next program.</p></div>
+      <div className="timeline">{timeline.map(([year, event], index) => <article key={year}><span>0{index + 1}</span><time>{year}</time><p>{event}</p></article>)}</div>
+    </section>
+    <section className="rfq" id="rfq">
+      <div className="rfq-copy"><div className="section-label light"><span>06</span><p>Start a program</p></div><h2>Bring us the<br /><em>difficult</em> part.</h2><p>Send the drawing, material requirement and production target. An Advanced team member can review fit, process and the next technical questions.</p><div className="confidentiality"><b>NDA + confidentiality</b><span>Controlled drawings and program information are handled through the existing secure quote workflow.</span></div></div>
+      <div className="rfq-panel"><p className="rfq-panel-title">Project intake</p><div className="rfq-fields" aria-label="RFQ information preview"><label>Company<input type="text" placeholder="Organization name" /></label><label>Work email<input type="email" placeholder="name@company.com" /></label><label className="field-wide">Project summary<textarea placeholder="Material, quantity, schedule and critical requirements" rows={4} /></label></div><a className="upload-zone" href="https://advcosinc.com/quote/"><span><b>Upload drawings securely</b><small>PDF, CAD, STEP and specification files · Existing portal supports files up to 2 GB</small></span><strong>Browse ↗</strong></a><div className="rfq-actions"><a className="button button-red" href="https://advcosinc.com/quote/">Request a quote <span>↗</span></a><a href="https://advcosinc.com/contact/">Talk to an engineer <span>↗</span></a></div></div>
+    </section>
+    <footer><a className="footer-brand" href="#top"><img src="/advanced-logo.jpg" alt="Advanced" /></a><p>Partners in manufacturing and distribution.<br />Owasso, Oklahoma.</p><nav aria-label="Footer navigation"><a href="#solutions">Solutions</a><a href="#quality">Quality</a><a href="#work">Work</a><a href="#company">Company</a><a href="https://recruiting.paylocity.com/recruiting/jobs/All/cb3507b0-4095-42c8-b12e-1ae0872126d2/ADVANCED-MACHINING-FABRIC">Careers ↗</a></nav><div className="footer-meta"><span>© 2026 Advanced</span><a href="https://advcosinc.com/privacy-policy/">Privacy</a><a href="https://advcosinc.com/contact/">Contact</a></div></footer>
+    <script type="application/ld+json" dangerouslySetInnerHTML={{ __html: JSON.stringify(schema) }} />
   </main>;
 }

diff --git a/app/layout.tsx b/app/layout.tsx
@@ -9,12 +9,20 @@ export async function generateMetadata(): Promise<Metadata> {
   const host = incoming.get("host") ?? "advcosinc.com";
   const protocol = incoming.get("x-forwarded-proto") ?? (host.includes("localhost") ? "http" : "https");
   const origin = `${protocol}://${host}`;
+  const title = "Advanced | Precision Machining & Manufacturing";
+  const description = "Complex precision machining, engineered plastics, fabrication and documented quality systems for aerospace, defense, energy, food processing and industrial programs.";
   return {
-    title: "Advanced | Precision Manufacturing",
-    description: "Precision machining, engineered plastics, and connected manufacturing operations built for demanding work.",
+    metadataBase: new URL(origin),
+    title,
+    description,
+    applicationName: "Advanced",
+    keywords: ["precision machining", "5-axis machining", "AS9100", "ISO 9001", "engineered plastics", "aerospace manufacturing", "Owasso Oklahoma"],
     icons: { icon: "/favicon.svg", shortcut: "/favicon.svg" },
-    openGraph: { title: "Advanced | Precision Manufacturing", description: "We make what matters.", images: [{ url: `${origin}/og.png`, width: 1200, height: 630, alt: "Advanced - We make what matters." }] },
-    twitter: { card: "summary_large_image", title: "Advanced | Precision Manufacturing", description: "We make what matters.", images: [`${origin}/og.png`] },
+    openGraph: { type: "website", url: origin, siteName: "Advanced", title, description, images: [{ url: `${origin}/og.png`, width: 1200, height: 630, alt: "Advanced — Precision engineered for demanding industries." }] },
+    twitter: { card: "summary_large_image", title, description, images: [`${origin}/og.png`] },
+    robots: { index: true, follow: true },
   };
 }
-export default function RootLayout({ children }: Readonly<{ children: React.ReactNode }>) { return <html lang="en"><body className={`${geist.variable} ${mono.variable}`}>{children}</body></html>; }
+export default function RootLayout({ children }: Readonly<{ children: React.ReactNode }>) {
+  return <html lang="en"><body className={`${geist.variable} ${mono.variable}`}>{children}</body></html>;
+}
